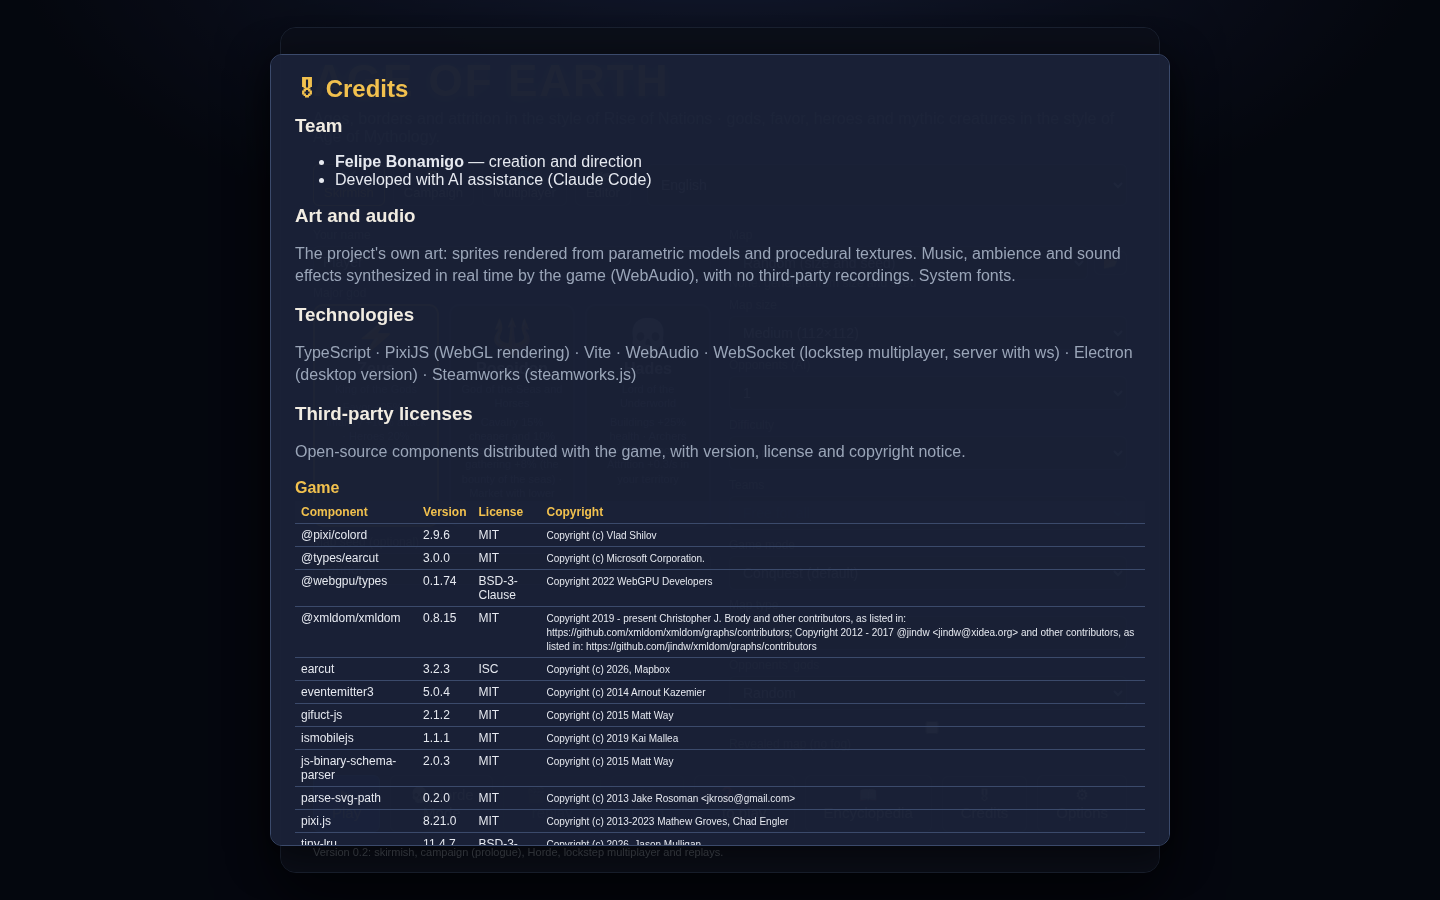
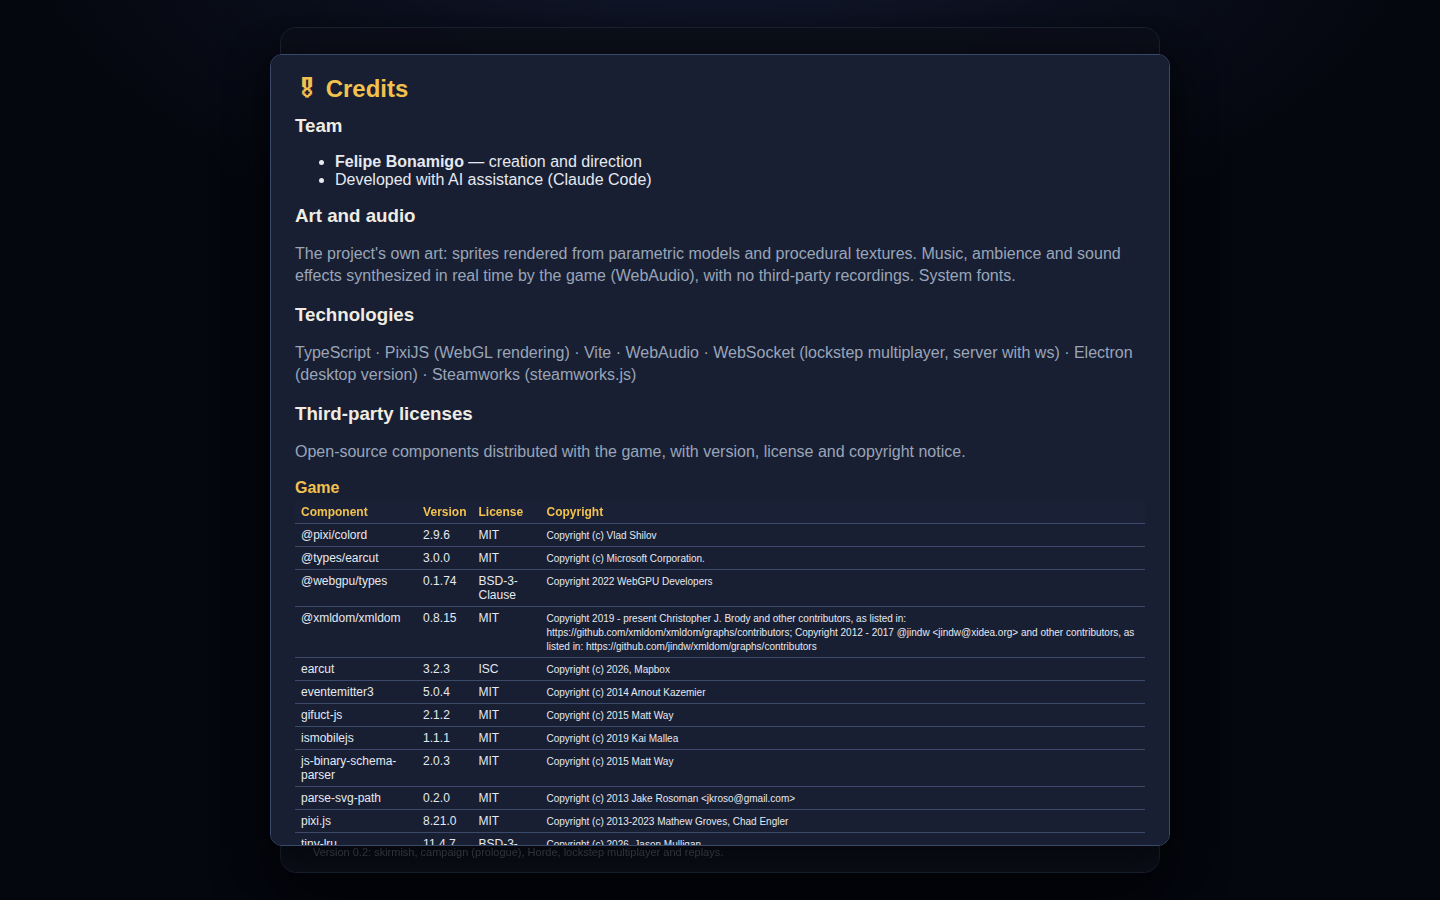
Modal opaco (o menu vazava por trás dos Créditos) e rodapé do menu atualizado para a versão 0.3
Claude-Session: https://claude.ai/code/session_01T69iHgagsmM9EBeYq4tRST

diff --git a/src/i18n/strings.ts b/src/i18n/strings.ts
@@ -86,7 +86,7 @@ const pt = {
   'main.skirmish': '⚔ Partida rápida', 'main.campaign': '📜 Campanha', 'main.multiplayer': '🌐 Multiplayer', 'main.name': 'Seu nome', 'main.god': 'Deus maior', 'main.seed': 'Semente do mapa (opcional)', 'main.random': 'aleatória',
   'main.fixedMap': 'Mapa fixo (arquivo do editor)', 'main.fixedMapNone': 'Nenhum: gerar pelo tamanho e semente', 'main.fixedMapLoad': '📂 Carregar mapa…', 'main.fixedMapClear': '✖', 'main.fixedMapBad': 'Arquivo de mapa inválido.', 'main.fixedMapInfo': '{name} ({w}×{h}, {n} inícios)', 'main.campaignDiff': 'Dificuldade', 'main.campaignDiffTip': 'Fácil: invasões menores e IAs fáceis · Difícil: invasões maiores e IAs um degrau acima', 'main.doneHard': 'Concluída no Difícil', 'mp.fixedMapStarts': 'O mapa fixo tem só {n} inícios para {p} jogadores.', 'mp.fixedMapHorde': 'O modo Horda usa o próprio mapa; o mapa fixo será ignorado.', 'menu.exportMap': '🗺 Exportar este mapa (para jogar de novo ou editar)', 'msg.mapExported': 'Mapa exportado. Carregue-o em Partida rápida → Mapa fixo.', 'main.mapSize': 'Tamanho do mapa', 'main.opponents': 'Oponentes (IA)', 'main.difficulty': 'Dificuldade', 'main.teams': 'Times', 'main.teams.ffa': 'Todos contra todos', 'main.teams.coop': 'Cooperativo: você + 1 IA aliada contra o resto', 'main.teams.alliance': 'Você contra uma aliança de IAs',
   'main.aiGods': 'Deuses dos oponentes', 'main.randomGods': 'Aleatórios', 'main.reveal': 'Mapa revelado (sem névoa)', 'main.play': '▶ Jogar', 'main.horde': '💀 Modo Horda', 'main.hordeTip': 'Sobreviva a 20 ondas do Tártaro', 'main.replay': '🎬 Último replay', 'main.load': '📂 Carregar', 'main.help': '❓ Como jogar', 'main.enc': '📖 Enciclopédia', 'main.language': '🌐 Idioma',
-  'main.credits': 'Versão 0.2: skirmish, campanha (prólogo), Horda, multiplayer em lockstep e replays.', 'main.campaignTitle': 'Titanomaquia', 'main.campaignDesc': 'A campanha em três atos: o prólogo ensina o jogo enquanto conta o despertar dos Titãs. Complete uma missão para liberar a próxima.', 'main.locked': 'bloqueada',
+  'main.credits': 'Versão 0.3: skirmish, campanha completa (12 missões), Horda, editor de mapas e cenários, multiplayer em lockstep e replays.', 'main.campaignTitle': 'Titanomaquia', 'main.campaignDesc': 'A campanha em três atos: o prólogo ensina o jogo enquanto conta o despertar dos Titãs. Complete uma missão para liberar a próxima.', 'main.locked': 'bloqueada',
   'main.act1': 'Ato I · A Sombra dos Titãs', 'main.act2': 'Ato II · A Maré de Poseidon', 'main.act3': 'Ato III · A Queda de Cronos', 'main.prologue': 'Prólogo',
   'main.player': 'Jogador',
   // créditos e licenças (ROADMAP 6.7; lista de licenças gerada por scripts/licenses.ts)
@@ -250,7 +250,7 @@ const en: Record<keyof typeof pt, string> = {
   'main.skirmish': '⚔ Skirmish', 'main.campaign': '📜 Campaign', 'main.multiplayer': '🌐 Multiplayer', 'main.name': 'Your name', 'main.god': 'Major god', 'main.seed': 'Map seed (optional)', 'main.random': 'random',
   'main.fixedMap': 'Fixed map (editor file)', 'main.fixedMapNone': 'None: generate from size and seed', 'main.fixedMapLoad': '📂 Load map…', 'main.fixedMapClear': '✖', 'main.fixedMapBad': 'Invalid map file.', 'main.fixedMapInfo': '{name} ({w}×{h}, {n} starts)', 'main.campaignDiff': 'Difficulty', 'main.campaignDiffTip': 'Easy: smaller raids and easy AIs · Hard: bigger raids and AIs one step up', 'main.doneHard': 'Completed on Hard', 'mp.fixedMapStarts': 'The fixed map only has {n} starts for {p} players.', 'mp.fixedMapHorde': 'Horde mode uses its own map; the fixed map will be ignored.', 'menu.exportMap': '🗺 Export this map (to replay or edit)', 'msg.mapExported': 'Map exported. Load it in Skirmish → Fixed map.', 'main.mapSize': 'Map size', 'main.opponents': 'Opponents (AI)', 'main.difficulty': 'Difficulty', 'main.teams': 'Teams', 'main.teams.ffa': 'Free for all', 'main.teams.coop': 'Co-op: you + 1 allied AI against the rest', 'main.teams.alliance': 'You against an alliance of AIs',
   'main.aiGods': "Opponents' gods", 'main.randomGods': 'Random', 'main.reveal': 'Revealed map (no fog)', 'main.play': '▶ Play', 'main.horde': '💀 Horde Mode', 'main.hordeTip': 'Survive 20 waves from Tartarus', 'main.replay': '🎬 Last replay', 'main.load': '📂 Load', 'main.help': '❓ How to play', 'main.enc': '📖 Encyclopedia', 'main.language': '🌐 Language',
-  'main.credits': 'Version 0.2: skirmish, campaign (prologue), Horde, lockstep multiplayer and replays.', 'main.campaignTitle': 'Titanomachy', 'main.campaignDesc': 'The campaign in three acts: the prologue teaches the game while telling of the awakening of the Titans. Complete a mission to unlock the next.', 'main.locked': 'locked',
+  'main.credits': 'Version 0.3: skirmish, full campaign (12 missions), Horde, map and scenario editor, lockstep multiplayer and replays.', 'main.campaignTitle': 'Titanomachy', 'main.campaignDesc': 'The campaign in three acts: the prologue teaches the game while telling of the awakening of the Titans. Complete a mission to unlock the next.', 'main.locked': 'locked',
   'main.act1': 'Act I · The Shadow of the Titans', 'main.act2': "Act II · Poseidon's Tide", 'main.act3': 'Act III · The Fall of Cronus', 'main.prologue': 'Prologue',
   'main.player': 'Player',
   'main.creditsBtn': '🎖 Credits', 'credits.title': '🎖 Credits', 'credits.team': 'Team',

diff --git a/src/ui/styles.css b/src/ui/styles.css
@@ -81,7 +81,7 @@ button { font-family: inherit; cursor: pointer; }
 #tooltip .desc { color: var(--muted); }
 
 #modal-back { position: fixed; inset: 0; background: rgba(0, 0, 0, 0.55); display: flex; align-items: center; justify-content: center; z-index: 40; }
-#modal { background: var(--panel2); border: 1px solid var(--border); border-radius: 12px; padding: 20px 24px; min-width: 420px; max-width: 900px; max-height: 88vh; overflow: auto; box-shadow: 0 10px 40px rgba(0,0,0,0.6); }
+#modal { background: rgb(24, 31, 51); border: 1px solid var(--border); border-radius: 12px; padding: 20px 24px; min-width: 420px; max-width: 900px; max-height: 88vh; overflow: auto; box-shadow: 0 10px 40px rgba(0,0,0,0.6); }
 #modal h2 { margin: 0 0 6px; color: var(--gold); }
 #modal h3 { margin: 12px 0 6px; color: var(--marble); }
 #modal p { color: var(--muted); line-height: 1.4; }
